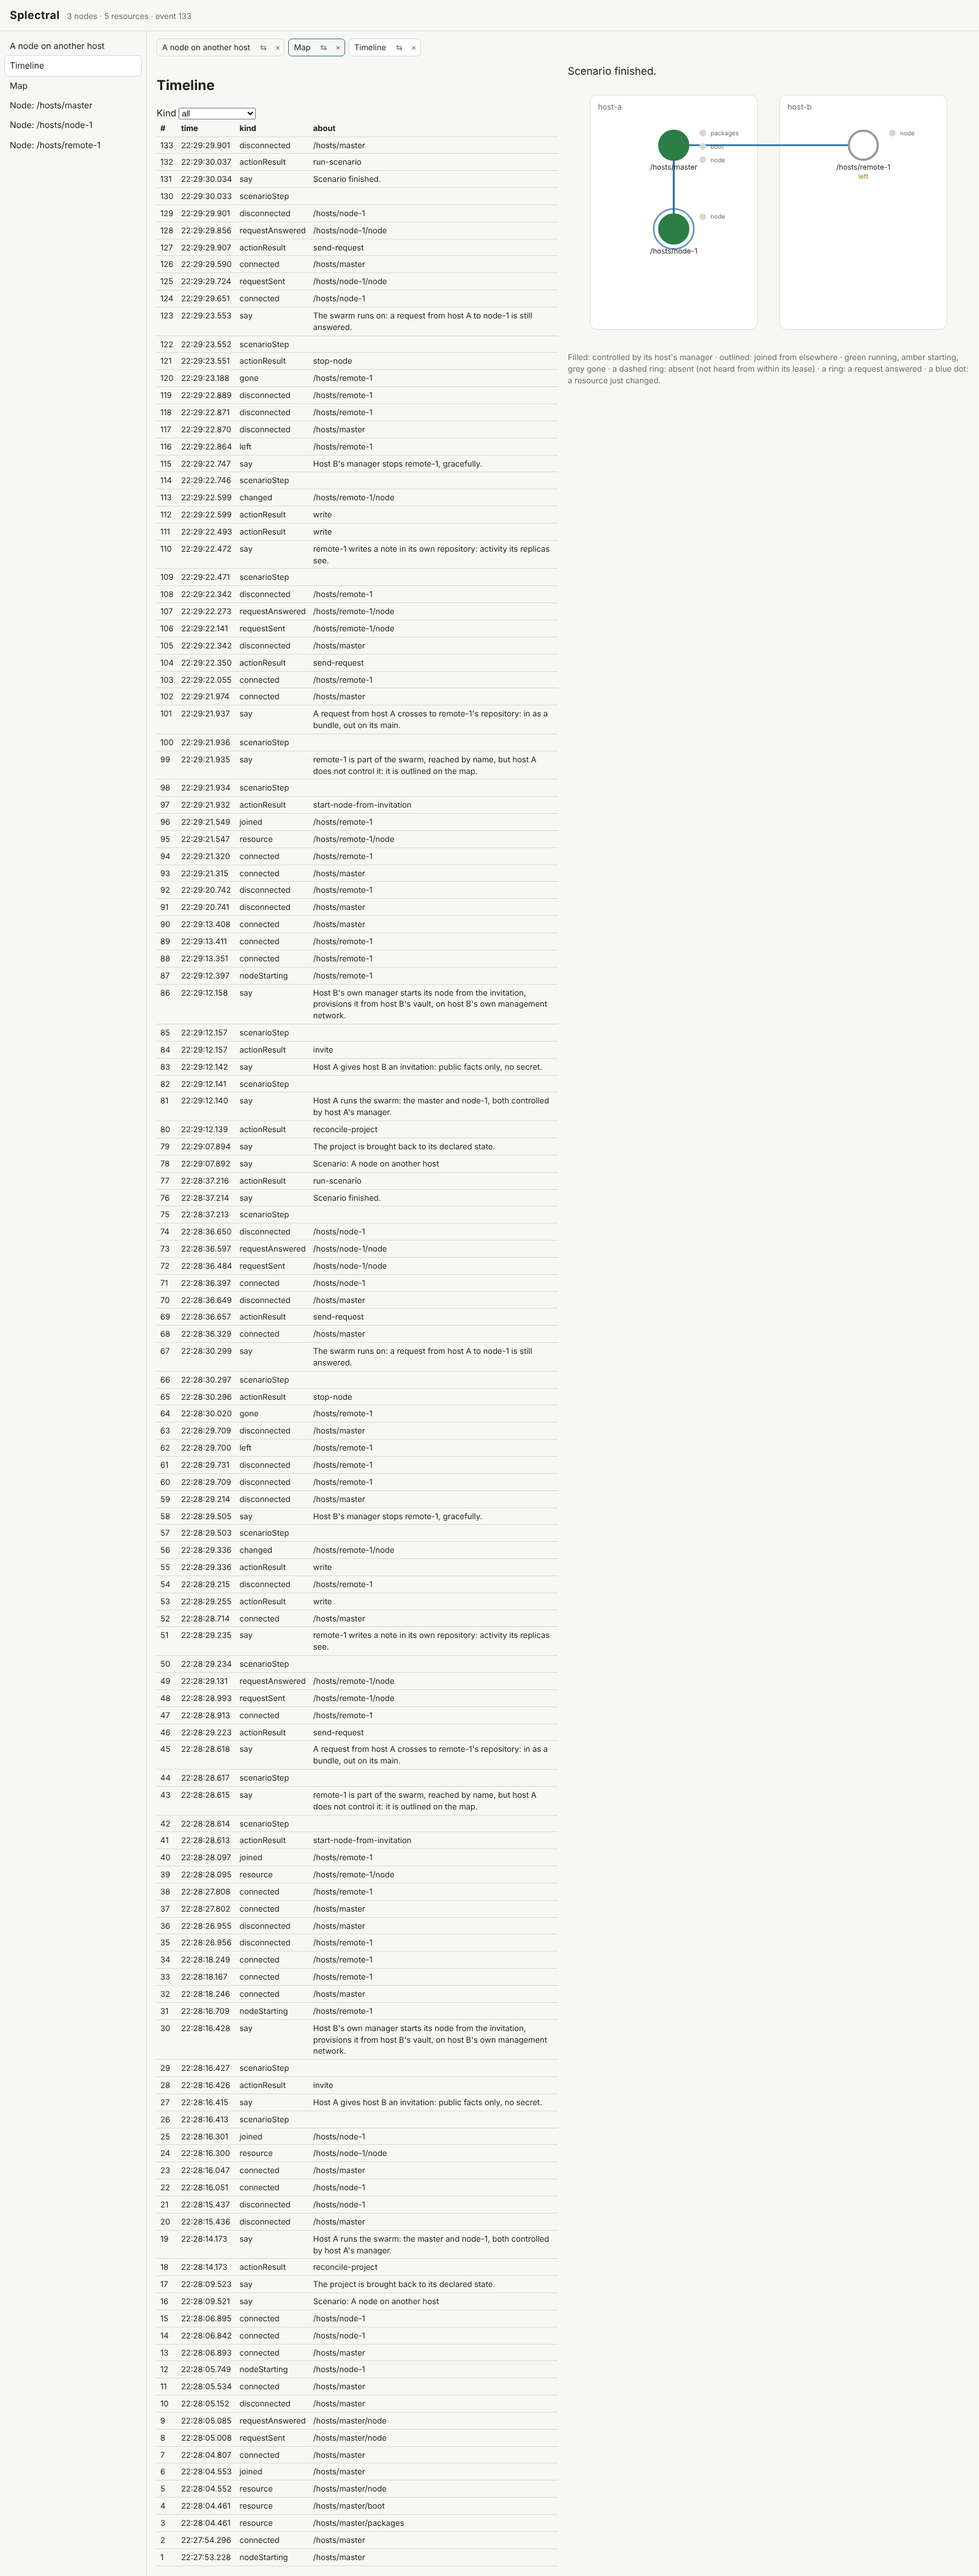
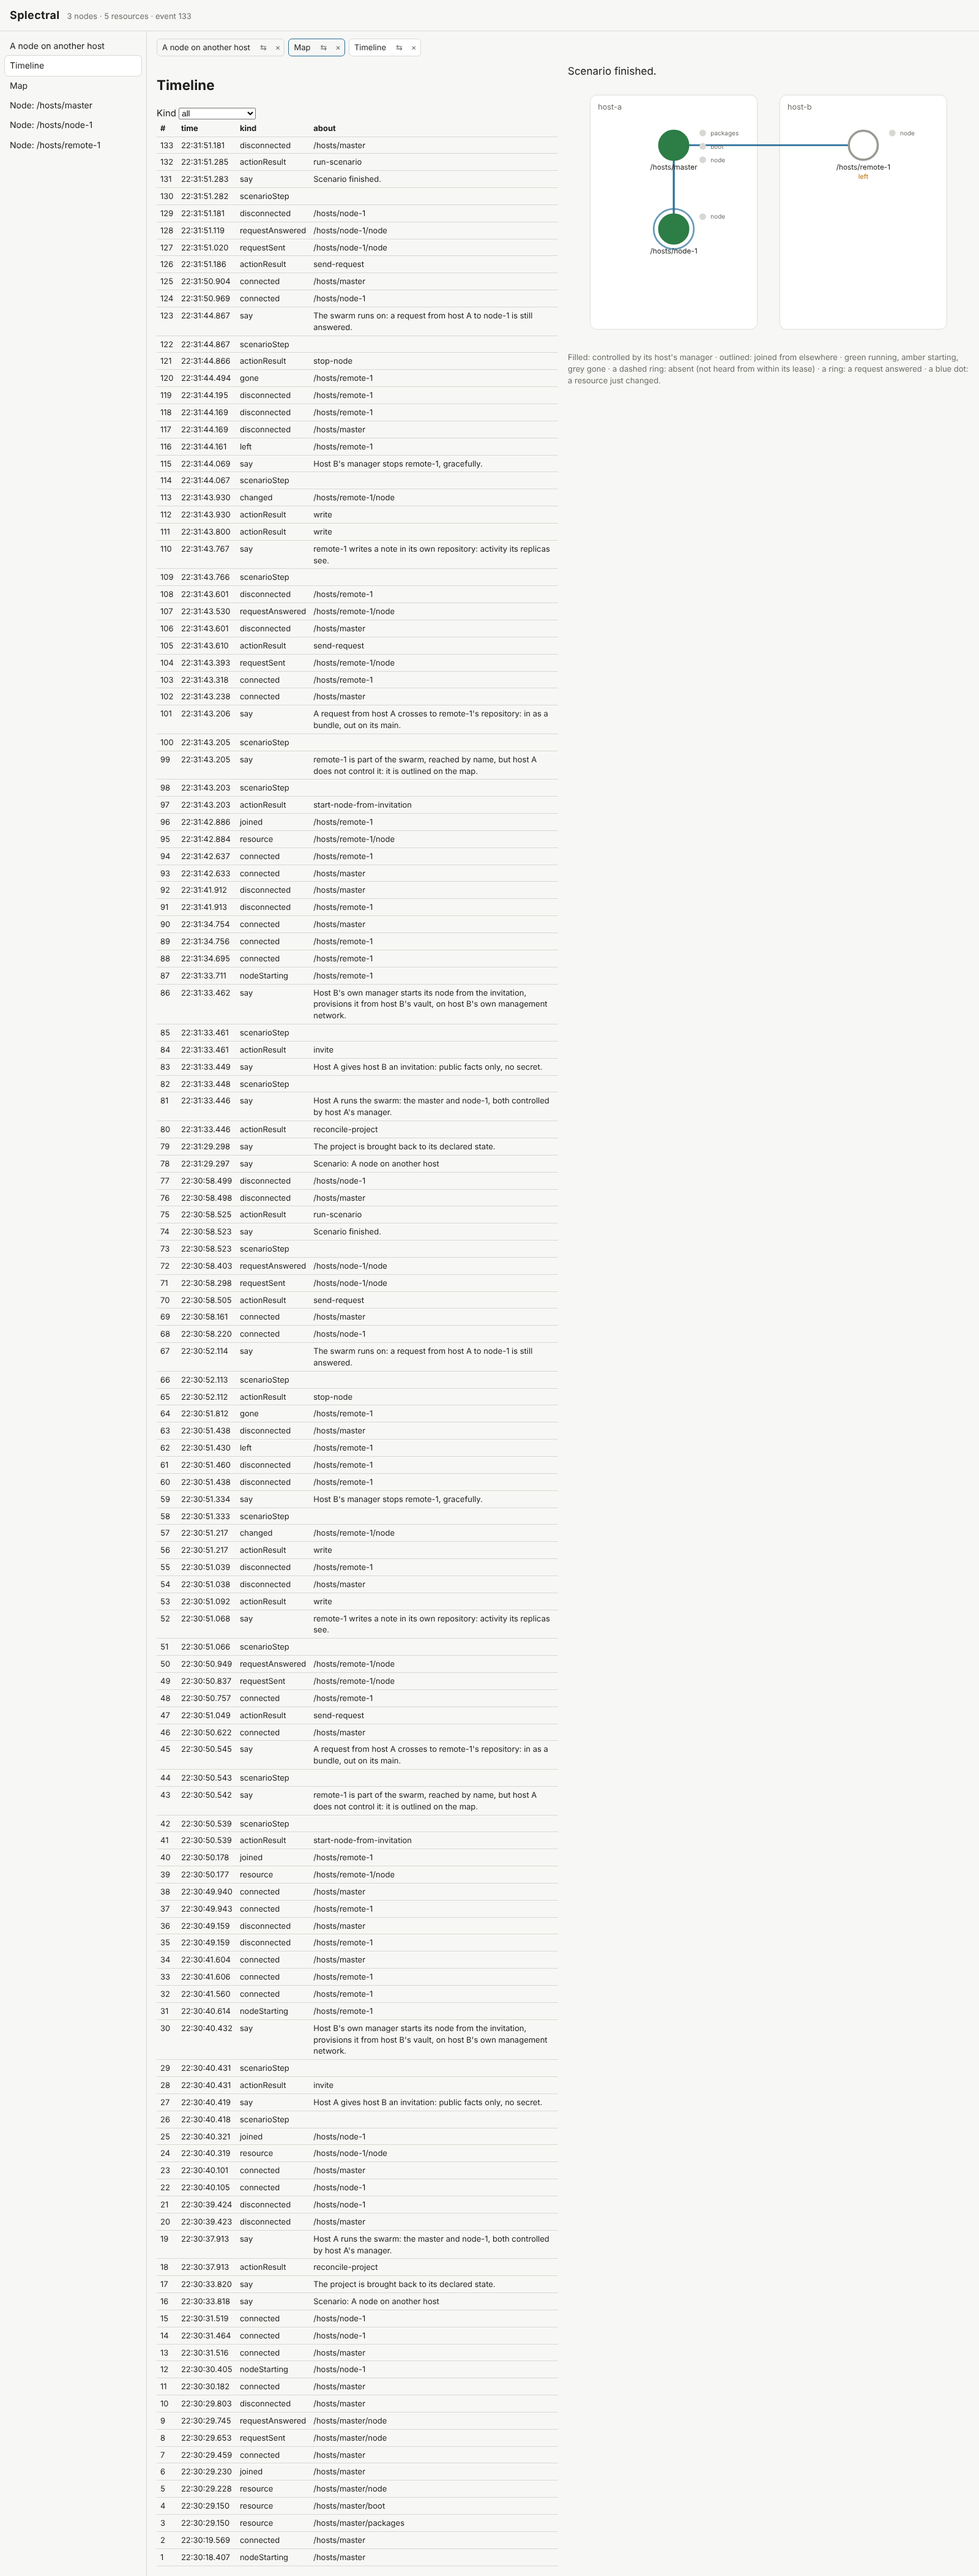
Phase 3, step 1, part 5: validation recorded (15 cases)
Claude-Session: https://claude.ai/code/session_01WxkeD4wGoCL1VncpeoTZaU

diff --git a/steps/phase-3/1-packages-and-boot/5-validation/readme.md b/steps/phase-3/1-packages-and-boot/5-validation/readme.md
@@ -1,0 +1,40 @@
+# Part 5: validation and products
+
+**Scope.** Everything as a person runs it, from the packages as written:
+plain folder copies of the `haiccing` repositories side by side, a clean
+home folder each (`HAICC_HOME` under the scratch folder). `run.sh
+<scratch>` runs the cases, each recorded in `record/<case>.txt`,
+`record/cases.txt` their exit codes; `publish.sh` writes and pushes the
+`haiccing` repositories (for the local agent, `notes/handover-packages.md`).
+
+**Findings** (2026-11-04; 15 cases, all as expected):
+
+| Case | Result |
+|---|---|
+| `import` | the third-party package: 192 modules, Linux x64, Bare 1.36.0 |
+| `write` | 8 repositories written after 35 test runs passed (each module's tests and each package's own), 52 s |
+| `step0-bare-debian` | a bare Debian container: Node.js, git, Docker each `no` with its fix; exit 1 (HAICC cannot boot) |
+| `step0-fix-node` | a host lacking Node.js and Docker: `fix --yes` installed Node.js v22.23.4 (the official release, checksum checked) into the home, no sudo; Docker's `apt` stubbed in this validation; then exit 3 (only a swarm's needs missing) |
+| `kick-pkgm-alone` | only `base-package-haicc` and `-pkgm` beside each other: step 0, the package manager installed; again: `current` |
+| `kick-haicc-missing` | the same two only, kicking HAICC: the package manager installed, then `base-package-mycelium` said missing with a clone and an archive command; exit 1 |
+| `kick-haicc-alone` | HAICC with what it requires: installed; again: all `current` |
+| `run-liveness` | a clean home, every repository beside the demo: `sh base-demo-liveness/run.sh`: HAICC kicked, the demo's packages installed, the image built from the install folder, deployed and started: 26 s |
+| `ui-liveness` | the scenario in a headless browser, the map beside it: ok in 77 s, run again ok in 35 s ("run 2"); no page error |
+| `test-liveness` | `haicc test`: the demo package's tests, its state as declared, its page answering 200: passed |
+| `teardown-liveness` | nothing running, no container or network left; the demo's package removed, the shared ones kept |
+| `run-other-host` | HAICC already installed (no kick): 17 s |
+| `ui-other-host` | ok in 55 s, again ok in 23 s; no page error |
+| `test-other-host` | passed |
+| `teardown-other-host` | nothing left running |
+
+- **No development repository and no `npm install`** in any of the runs:
+  code from the install folder only, Bare's runtime from the third-party
+  package.
+- The first record of `ui-other-host` came out empty though the case
+  passed (its screenshots there); the four other-host cases were run again
+  and recorded.
+- **Not done here**: the from-scratch script against GitHub's archives,
+  which needs the `haiccing` repositories published first (the local
+  agent).
+
+**Products**: `products.md`.
